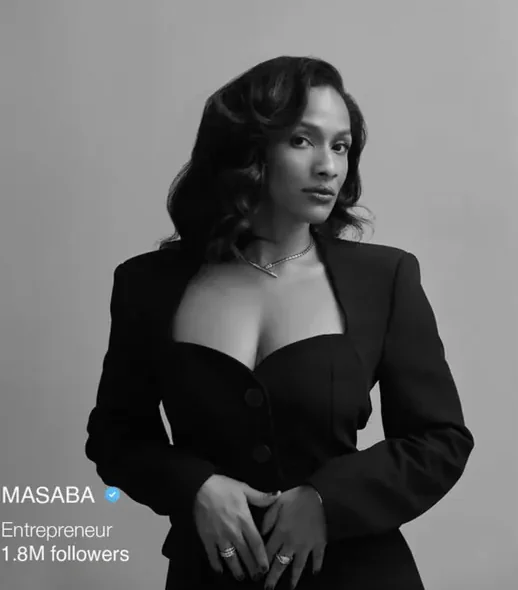
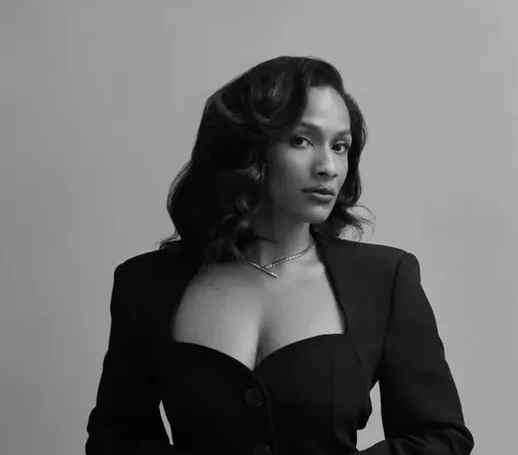
Fig Living: tighten remaining authorship and results claims
An adversarial pass over the rewritten page caught things the first commit left
behind, including two I introduced.

- creator-portrait.webp carried a burned-in "MASABA / Entrepreneur / 1.8M
  followers" overlay: an unverifiable audience figure on a named public person,
  inside our own case study. Recropped to the portrait alone.
- "consistently the cheaper click" and "the one that converts" were measured
  performance results with no account data behind them. Both are now stated as
  how the testing is set up, not what it returned.
- The closing stat still read "6 colour palette, locked", which is a brand
  system deliverable. Now "6 brand colours every ad works inside".
- JSON-LD named the CreativeWork "Fig Living" with the studio as creator, i.e.
  we created a work called Fig Living. It now names the case study.
- The footer CTA said "See it live" pointing at figliving.com; on a portfolio
  page that means "see the thing we made". Now "Visit figliving.com".
- "Live: figliving.com" in the hero metadata read the same way. Now
  "Traffic goes to".
- The logo and typeface captions were written in designer's-rationale voice.
  They now describe FIG's mark and FIG's display face and say what we do with
  them, without reading as a disclaimer.
- "our night-shot ads" could be read as ads we shot; "no new build" implied we
  build for them. Both reworded, and two alt attributes no longer relabel FIG's
  own editorial as our campaign work.
[…]

Changed region(s): [[0.0, 0.0923, 0.9266, 1.0], [0.6795, 0.8308, 0.7413, 1.0], [0.4633, 0.3385, 0.4942, 0.4]]

diff --git a/work/fig.html b/work/fig.html
@@ -36,7 +36,7 @@
 <meta name="twitter:title" content="Fig Living — Case study — Just Two Idiots">
 <meta name="twitter:description" content="Performance marketing for FIG Living — paid social, paid search and the ad creative behind modern paper-pleated lighting, sold on what it does to a room at night.">
 <meta name="twitter:image" content="https://justtwoidiots.com/assets/og/fig.jpg">
-<script type="application/ld+json">{"@context":"https://schema.org","@graph":[{"@type":"CreativeWork","url":"https://justtwoidiots.com/work/fig.html","name":"Fig Living","headline":"Fig Living","description":"Performance marketing for FIG Living — paid social, paid search and the ad creative behind modern paper-pleated lighting, sold on what it does to a room at night.","image":"https://justtwoidiots.com/assets/og/fig.jpg","about":"Portable, table and pendant lighting","creator":{"@id":"https://justtwoidiots.com/#studio"},"isPartOf":{"@id":"https://justtwoidiots.com/#website"},"keywords":"Performance marketing, Paid social, Paid search, Ad creative","availableLanguage":"en"},{"@type":"BreadcrumbList","itemListElement":[{"@type":"ListItem","position":1,"name":"Home","item":"https://justtwoidiots.com/"},{"@type":"ListItem","position":2,"name":"Work","item":"https://justtwoidiots.com/#work"},{"@type":"ListItem","position":3,"name":"Fig Living"}]}]}</script>
+<script type="application/ld+json">{"@context":"https://schema.org","@graph":[{"@type":"CreativeWork","url":"https://justtwoidiots.com/work/fig.html","name":"Fig Living \u2014 performance marketing case study","headline":"Fig Living \u2014 performance marketing case study","description":"Performance marketing for FIG Living — paid social, paid search and the ad creative behind modern paper-pleated lighting, sold on what it does to a room at night.","image":"https://justtwoidiots.com/assets/og/fig.jpg","about":"Portable, table and pendant lighting","creator":{"@id":"https://justtwoidiots.com/#studio"},"isPartOf":{"@id":"https://justtwoidiots.com/#website"},"keywords":"Performance marketing, Paid social, Paid search, Ad creative","availableLanguage":"en"},{"@type":"BreadcrumbList","itemListElement":[{"@type":"ListItem","position":1,"name":"Home","item":"https://justtwoidiots.com/"},{"@type":"ListItem","position":2,"name":"Work","item":"https://justtwoidiots.com/#work"},{"@type":"ListItem","position":3,"name":"Fig Living"}]}]}</script>
 </head>
 <body>
 
@@ -68,7 +68,7 @@
         <div><div style="font-size:11px; letter-spacing:0.16em; text-transform:uppercase; color:#9A8F7E; margin-bottom:8px;">Client</div><div style="font-size:15px; line-height:1.6;">FIG Living<br />India</div></div>
         <div><div style="font-size:11px; letter-spacing:0.16em; text-transform:uppercase; color:#9A8F7E; margin-bottom:8px;">Category</div><div style="font-size:15px; line-height:1.6;">Portable, table<br />&amp; pendant lighting</div></div>
         <div><div style="font-size:11px; letter-spacing:0.16em; text-transform:uppercase; color:#9A8F7E; margin-bottom:8px;">What we run</div><div style="font-size:15px; line-height:1.6;">Performance marketing<br />Paid social<br />Paid search<br />Ad creative</div></div>
-        <div><div style="font-size:11px; letter-spacing:0.16em; text-transform:uppercase; color:#9A8F7E; margin-bottom:8px;">Live</div><div style="font-size:15px; line-height:1.6;"><a href="https://figliving.com">figliving.com</a><br />Always on</div></div>
+        <div><div style="font-size:11px; letter-spacing:0.16em; text-transform:uppercase; color:#9A8F7E; margin-bottom:8px;">Traffic goes to</div><div style="font-size:15px; line-height:1.6;"><a href="https://figliving.com">figliving.com</a><br />Always on</div></div>
       </div>
     </div>
   </section>
@@ -96,13 +96,13 @@
       <div style="background:#FFFFFF; border-radius:20px; padding:56px; display:flex; flex-direction:column; justify-content:space-between; gap:48px; min-height:340px; position:relative; overflow:hidden;">
         <div style="position:absolute; right:-60px; top:-60px; width:260px; height:260px; border-radius:50%; background:radial-gradient(circle, rgba(224,164,48,0.42) 0%, rgba(224,164,48,0) 68%); animation:fig-glow 6s ease-in-out infinite;"></div>
         <img src="../assets/casestudy/figliving/fig-logo.avif" alt="FIG Living logo" style="width:230px; max-width:60%; display:block; position:relative;" fetchpriority="high" decoding="async">
-        <div style="font-size:14px; line-height:1.6; color:#9A8F7E; max-width:52ch; position:relative;">Two dots over the &ldquo;i&rdquo; read as a pair of bulbs, and the rotated LIVING keeps the mark square enough for a profile picture. Lowercase, wide-set, no ornament &mdash; which is exactly why every ad we cut leads with the product and lets the logo sit in the corner.</div>
+        <div style="font-size:14px; line-height:1.6; color:#9A8F7E; max-width:52ch; position:relative;">FIG&rsquo;s mark puts two dots over the &ldquo;i&rdquo; that read as a pair of bulbs, and rotates LIVING to keep it square enough for a profile picture. Lowercase, wide-set, no ornament &mdash; which is exactly why every ad we cut leads with the product and lets the logo sit in the corner.</div>
       </div>
       <div style="display:grid; grid-template-rows:1fr 1fr; gap:20px;">
         <div style="background:#1A1613; border-radius:20px; padding:32px; display:flex; flex-direction:column; justify-content:space-between; color:#FBF7EC; position:relative; overflow:hidden;">
           <div style="position:absolute; left:50%; top:-40px; width:200px; height:200px; margin-left:-100px; border-radius:50%; background:radial-gradient(circle, rgba(255,214,138,0.5) 0%, rgba(255,214,138,0) 70%); animation:fig-glow 5s ease-in-out infinite;"></div>
           <div style="font-size:11px; letter-spacing:0.16em; text-transform:uppercase; opacity:0.6; position:relative;">On dark</div>
-          <div style="position:relative;"><div style="font-family:'Jost',sans-serif; font-weight:400; font-size:34px; letter-spacing:0.06em;">fig</div><div style="font-size:13px; opacity:0.65; margin-top:4px;">The reversed lockup &mdash; the variant our night-shot ads carry</div></div>
+          <div style="position:relative;"><div style="font-family:'Jost',sans-serif; font-weight:400; font-size:34px; letter-spacing:0.06em;">fig</div><div style="font-size:13px; opacity:0.65; margin-top:4px;">The reversed lockup &mdash; the variant the night-lit ad frames carry</div></div>
         </div>
         <div style="background:#E0A430; border-radius:20px; padding:32px; display:flex; flex-direction:column; justify-content:space-between; color:#1A1613;">
           <div style="font-size:11px; letter-spacing:0.16em; text-transform:uppercase; opacity:0.7;">Voice</div>
@@ -124,7 +124,7 @@
       <div style="background:#FFFFFF; border-radius:20px; padding:40px 44px;">
         <div style="font-size:11px; letter-spacing:0.16em; text-transform:uppercase; color:#9A8F7E; margin-bottom:22px;">Display &mdash; Jost</div>
         <div style="font-family:'Jost',sans-serif; font-weight:400; font-size:clamp(38px,5vw,64px); line-height:0.95; letter-spacing:0.06em; white-space:nowrap;">Aa Rg</div>
-        <div style="font-family:'Jost',sans-serif; font-size:14px; color:#9A8F7E; margin-top:24px; max-width:42ch; line-height:1.6;">Wide-tracked caps carry the hook on every static and the end card on every cut &mdash; the geometry of the lamp shades, in type.</div>
+        <div style="font-family:'Jost',sans-serif; font-size:14px; color:#9A8F7E; margin-top:24px; max-width:42ch; line-height:1.6;">Jost is FIG&rsquo;s display face, so wide-tracked caps carry the hook on every static and the end card on every cut.</div>
       </div>
       <div style="background:#FFFFFF; border-radius:20px; padding:40px 44px;">
         <div style="font-size:11px; letter-spacing:0.16em; text-transform:uppercase; color:#9A8F7E; margin-bottom:22px;">Text &mdash; Inter Tight</div>
@@ -286,12 +286,12 @@
         <span style="font-size:12px; letter-spacing:0.18em; text-transform:uppercase; color:#9A8F7E;">How we run it</span>
       </div>
       <h2 style="font-family:'Jost',sans-serif; font-weight:300; font-size:clamp(32px,4.6vw,60px); line-height:1.06; letter-spacing:0.01em; margin:0; max-width:22ch;">Borrowed taste, then proof.</h2>
-      <p style="font-size:clamp(16px,1.5vw,19px); line-height:1.55; font-weight:300; color:#9A8F7E; margin:20px 0 0; max-width:56ch;">A creator opens the funnel, a wall of verified buyers closes it. The lamp is shown twice &mdash; once styled, once in somebody&rsquo;s actual bedroom &mdash; and the second frame is the one that converts.</p>
+      <p style="font-size:clamp(16px,1.5vw,19px); line-height:1.55; font-weight:300; color:#9A8F7E; margin:20px 0 0; max-width:56ch;">A creator opens the funnel, a wall of verified buyers closes it. The lamp is shown twice &mdash; once styled, once in somebody&rsquo;s actual bedroom &mdash; and the pair is tested against each other rather than argued about.</p>
     </div>
 
     <div data-reveal style="opacity:0; transform:translateY(28px); transition:opacity 0.8s ease, transform 0.8s cubic-bezier(0.2,0.7,0.2,1); margin-top:48px; display:grid; grid-template-columns:minmax(0,0.85fr) minmax(0,1.15fr); gap:20px; align-items:stretch;">
       <div style="border-radius:18px; overflow:hidden; box-shadow:0 30px 70px rgba(26,22,19,0.1); position:relative; background:#1A1613;">
-        <img src="../assets/casestudy/figliving/ads/creator-portrait.webp" alt="Creator campaign asset &mdash; Masaba for FIG Living" style="width:100%; height:100%; object-fit:cover; display:block;" loading="lazy" decoding="async">
+        <img src="../assets/casestudy/figliving/ads/creator-portrait.webp" alt="Creator frame used in paid social" style="width:100%; height:100%; object-fit:cover; display:block;" loading="lazy" decoding="async">
         <div style="position:absolute; right:14px; top:14px; background:rgba(251,247,236,0.92); color:#1A1613; border-radius:999px; padding:6px 12px; font-size:11px; letter-spacing:0.08em; text-transform:uppercase;">Paid partnership</div>
       </div>
       <div style="border-radius:18px; background:#FFFFFF; padding:clamp(28px,3.4vw,48px); display:flex; flex-direction:column; justify-content:center; gap:22px;">
@@ -314,12 +314,12 @@
       <div style="background:#FFFFFF; border-radius:20px; padding:34px 30px;">
         <div style="font-family:'Jost',sans-serif; font-weight:500; font-size:13px; color:#8A4326;">02</div>
         <div style="font-family:'Jost',sans-serif; font-weight:400; font-size:19px; letter-spacing:0.02em; margin-top:16px;">Real rooms, unretouched</div>
-        <div style="font-size:14px; line-height:1.6; color:#9A8F7E; margin-top:8px;">Customer photos run against studio frames as a straight A/B. Warm, grainy, badly lit &mdash; and consistently the cheaper click.</div>
+        <div style="font-size:14px; line-height:1.6; color:#9A8F7E; margin-top:8px;">Customer photos run against studio frames as a straight A/B. Warm, grainy, badly lit &mdash; and they earn their place in the rotation on their own.</div>
       </div>
       <div style="background:#FFFFFF; border-radius:20px; padding:34px 30px;">
         <div style="font-family:'Jost',sans-serif; font-weight:500; font-size:13px; color:#8A4326;">03</div>
         <div style="font-family:'Jost',sans-serif; font-weight:400; font-size:19px; letter-spacing:0.02em; margin-top:16px;">Editorial numbering</div>
-        <div style="font-size:14px; line-height:1.6; color:#9A8F7E; margin-top:8px;">01&ndash;04 over a colour-blocked grid turns a bestseller list into a carousel. Same layout, new products each month, no new build.</div>
+        <div style="font-size:14px; line-height:1.6; color:#9A8F7E; margin-top:8px;">01&ndash;04 over a colour-blocked grid turns a bestseller list into a carousel. Same layout, new products each month.</div>
       </div>
       <div style="background:#FFFFFF; border-radius:20px; padding:34px 30px;">
         <div style="font-family:'Jost',sans-serif; font-weight:500; font-size:13px; color:#8A4326;">04</div>
@@ -329,7 +329,7 @@
     </div>
 
     <div data-reveal style="opacity:0; transform:translateY(28px); transition:opacity 0.8s ease, transform 0.8s cubic-bezier(0.2,0.7,0.2,1); margin-top:24px; border-radius:18px; overflow:hidden; box-shadow:0 30px 70px rgba(26,22,19,0.1);">
-      <img src="../assets/casestudy/figliving/ads/editorial-loved.webp" alt="FIG Living Loved Again and Again campaign spread" style="width:100%; display:block;" loading="lazy" decoding="async">
+      <img src="../assets/casestudy/figliving/ads/editorial-loved.webp" alt="FIG Living table lamps, editorial layout" style="width:100%; display:block;" loading="lazy" decoding="async">
     </div>
   </section>
 
@@ -383,7 +383,7 @@
 
       <div data-reveal style="opacity:0; transform:translateY(28px); transition:opacity 0.8s ease, transform 0.8s cubic-bezier(0.2,0.7,0.2,1); display:grid; grid-template-columns:repeat(4,minmax(0,1fr)); gap:20px; margin-top:64px;">
         <div><div style="font-family:'Jost',sans-serif; font-weight:400; font-size:clamp(30px,3.4vw,46px); letter-spacing:0.01em;">4</div><div style="font-size:14px; opacity:0.65; margin-top:4px;">formats in rotation</div></div>
-        <div><div style="font-family:'Jost',sans-serif; font-weight:400; font-size:clamp(30px,3.4vw,46px); letter-spacing:0.01em;">6</div><div style="font-size:14px; opacity:0.65; margin-top:4px;">colour palette, locked</div></div>
+        <div><div style="font-family:'Jost',sans-serif; font-weight:400; font-size:clamp(30px,3.4vw,46px); letter-spacing:0.01em;">6</div><div style="font-size:14px; opacity:0.65; margin-top:4px;">brand colours every ad works inside</div></div>
         <div><div style="font-family:'Jost',sans-serif; font-weight:400; font-size:clamp(30px,3.4vw,46px); letter-spacing:0.01em;">3</div><div style="font-size:14px; opacity:0.65; margin-top:4px;">audiences &mdash; cold, warm, close</div></div>
         <div><div style="font-family:'Jost',sans-serif; font-weight:400; font-size:clamp(30px,3.4vw,46px); letter-spacing:0.01em;">1</div><div style="font-size:14px; opacity:0.65; margin-top:4px;">creative template, whole catalogue</div></div>
       </div>
@@ -394,7 +394,7 @@
     <div data-reveal style="opacity:0; transform:translateY(28px); transition:opacity 0.8s ease, transform 0.8s cubic-bezier(0.2,0.7,0.2,1); display:flex; justify-content:space-between; align-items:flex-end; gap:40px; flex-wrap:wrap; padding-bottom:44px; border-bottom:1px solid rgba(26,22,19,0.14);">
       <div style="font-family:'Jost',sans-serif; font-weight:300; font-size:clamp(30px,4.4vw,58px); line-height:1.04; letter-spacing:0.01em; max-width:20ch;">Want this for your brand?</div>
       <div style="display:flex; gap:12px; flex-wrap:wrap;">
-        <a href="https://figliving.com" class="fig-hov-dark" style="border:1px solid rgba(26,22,19,0.28); border-radius:999px; padding:15px 26px; font-size:14px; color:#1A1613; transition:background 0.25s, color 0.25s;">See it live</a>
+        <a href="https://figliving.com" class="fig-hov-dark" style="border:1px solid rgba(26,22,19,0.28); border-radius:999px; padding:15px 26px; font-size:14px; color:#1A1613; transition:background 0.25s, color 0.25s;">Visit figliving.com</a>
         <a href="tel:+917788990166" class="fig-hov-dark" style="background:#E0A430; color:#1A1613; border-radius:999px; padding:16px 28px; font-size:14px; transition:background 0.25s, color 0.25s;">Start a project</a>
       </div>
     </div>
